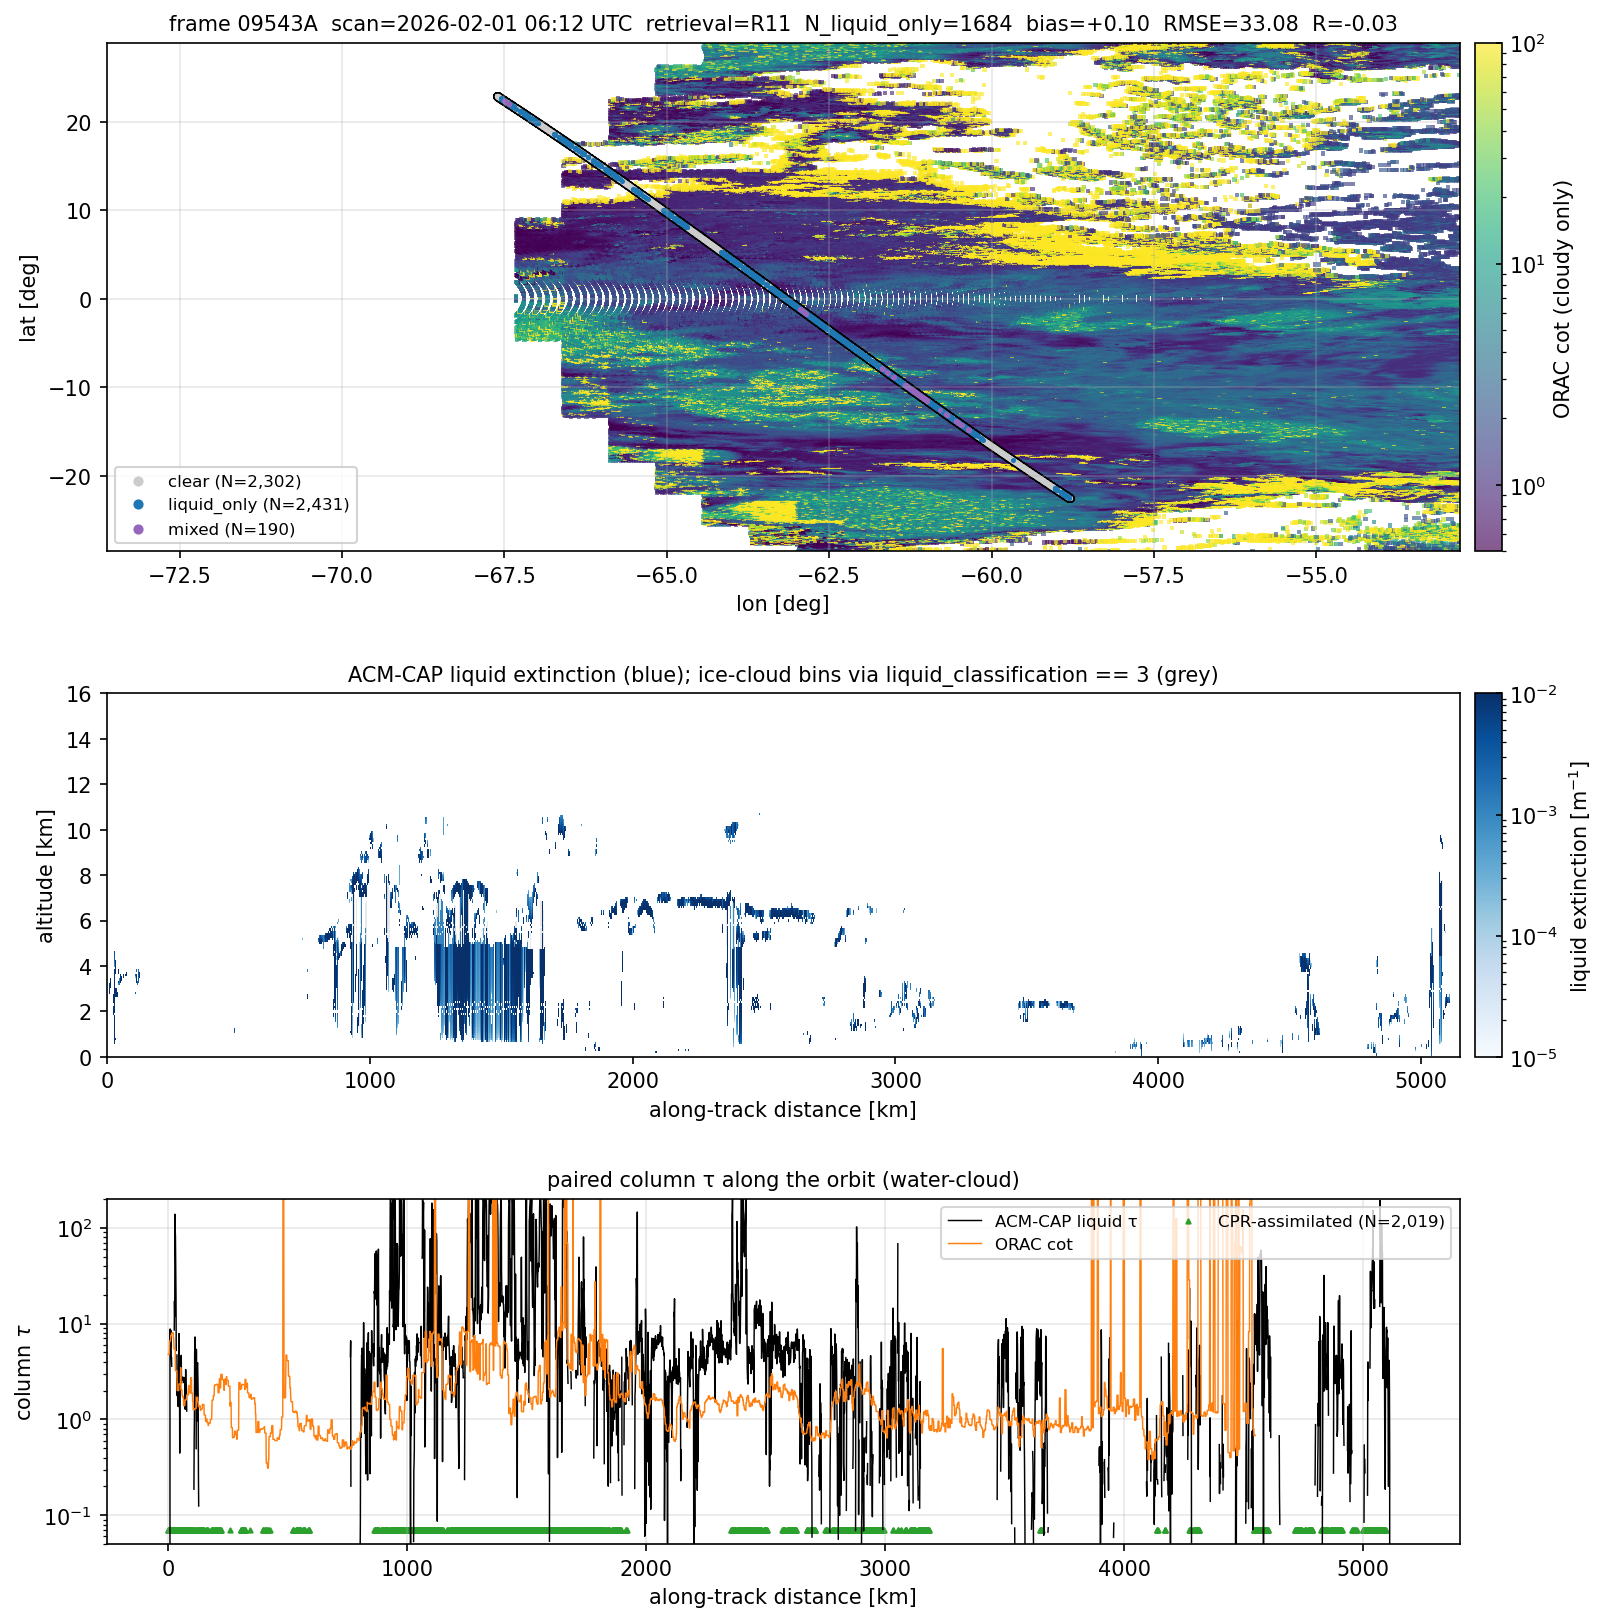
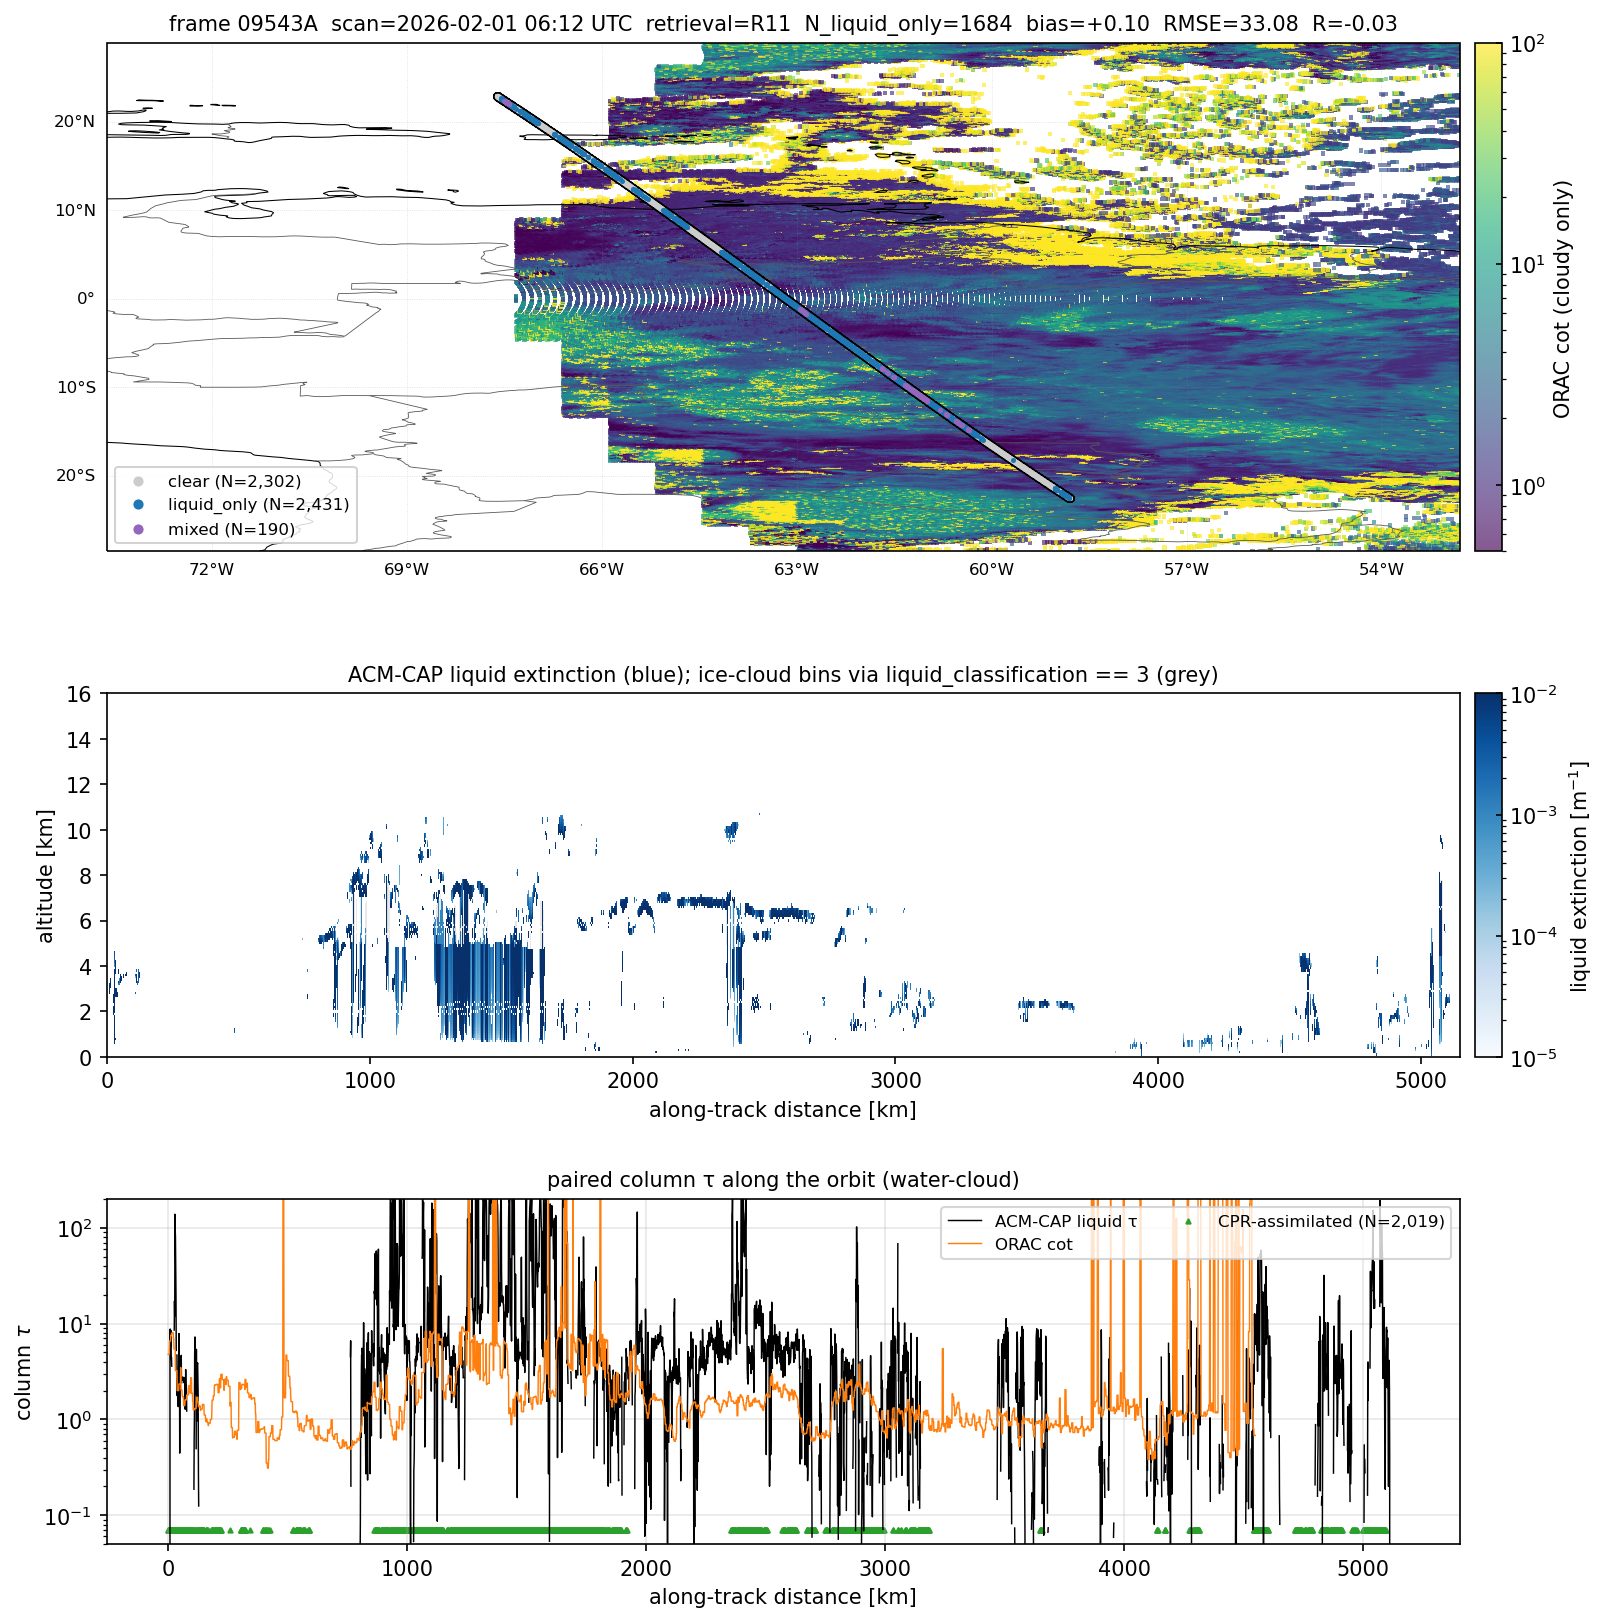
validation(cot_water): add coastlines + country borders to track maps
The SEVIRI cot panel now uses a cartopy PlateCarree GeoAxes with
COASTLINE and BORDERS features overlaid. Geographic context is now
visible at a glance — Greenland's outline at the apex of the Arctic
pass, Iberia / France / UK on the European frame, etc.

Two cartopy/matplotlib gotchas fixed in passing:
 1. make_axes_locatable on a GeoAxes raises KeyError('projection') when
    appending a regular axis — pass axes_class=plt.Axes explicitly.
 2. cartopy default aspect=1 (equal-degree) squashes the map narrower
    than the curtain/line panels for tall-narrow longitude ranges.
    Set ax_map.set_aspect('auto') so all three panels stay uniform width.

Re-rendered all 10 case-study panels.

diff --git a/validation/track_figures.py b/validation/track_figures.py
@@ -17,6 +17,9 @@ import pandas as pd
 from matplotlib.colors import LogNorm
 from mpl_toolkits.axes_grid1 import make_axes_locatable
 
+import cartopy.crs as ccrs
+import cartopy.feature as cfeature
+
 from orac.io import open_slot
 from orac.metadata import discover_slots
 
@@ -316,9 +319,11 @@ def track_panel_synergy(
 
     # Common helper: attach a same-width colourbar to a panel via
     # make_axes_locatable, so panel widths stay aligned across the column.
+    # Force axes_class=plt.Axes — cartopy GeoAxes default would re-create
+    # a GeoAxes for the colourbar slot, which raises KeyError('projection').
     def _add_cbar(ax, mappable, label: str):
         div = make_axes_locatable(ax)
-        cax = div.append_axes("right", size="2%", pad=0.10)
+        cax = div.append_axes("right", size="2%", pad=0.10, axes_class=plt.Axes)
         cb = fig.colorbar(mappable, cax=cax)
         cb.set_label(label)
         cb.ax.tick_params(direction="in", length=3)
@@ -327,26 +332,40 @@ def track_panel_synergy(
     def _add_cbar_spacer(ax):
         """Reserve the same right-margin width on a non-colourbar panel."""
         div = make_axes_locatable(ax)
-        cax = div.append_axes("right", size="2%", pad=0.10)
+        cax = div.append_axes("right", size="2%", pad=0.10, axes_class=plt.Axes)
         cax.axis("off")
 
     # ── Row 1: SEVIRI cot map + ATLID nadir track coloured by phase ─────
-    ax_map = fig.add_subplot(gs[0])
+    proj = ccrs.PlateCarree()
+    ax_map = fig.add_subplot(gs[0], projection=proj)
+    transform = ccrs.PlateCarree()
     pcm = ax_map.scatter(sl_lon[cloudy], sl_lat[cloudy], c=sl_cot[cloudy],
                          cmap=COT_CMAP, norm=COT_NORM, s=4, marker="s",
-                         linewidths=0, alpha=0.65)
+                         linewidths=0, alpha=0.65, transform=transform)
     _add_cbar(ax_map, pcm, "ORAC cot (cloudy only)")
+    # Coastlines + country borders for geographic context.
+    ax_map.add_feature(cfeature.COASTLINE, lw=0.5, edgecolor="black", zorder=2)
+    ax_map.add_feature(cfeature.BORDERS,   lw=0.4, edgecolor="0.35", zorder=2)
     # Black halo for visibility, then phase-coloured dots on top.
-    ax_map.scatter(lon, lat, c="black", s=18, linewidths=0)
+    ax_map.scatter(lon, lat, c="black", s=18, linewidths=0,
+                   transform=transform, zorder=3)
     for cls, col in _PHASE_COLORS.items():
         m = phase_o == cls
         if m.any():
             ax_map.scatter(lon[m], lat[m], c=col, s=6, linewidths=0,
+                           transform=transform, zorder=4,
                            label=f"{cls} (N={int(m.sum()):,})")
     ax_map.legend(loc="lower left", fontsize=8, framealpha=0.85,
                   markerscale=2)
-    ax_map.set_xlim(lon_min, lon_max); ax_map.set_ylim(lat_min, lat_max)
-    ax_map.set_xlabel("lon [deg]"); ax_map.set_ylabel("lat [deg]")
+    ax_map.set_extent([lon_min, lon_max, lat_min, lat_max], crs=transform)
+    # By default cartopy enforces equal-degree aspect (data:1) which can
+    # squash the map narrower than the curtain/line panels. Force 'auto'
+    # so the map fills the full panel width matching panels 2 and 3.
+    ax_map.set_aspect("auto")
+    gl = ax_map.gridlines(draw_labels=True, alpha=0.3, lw=0.4,
+                          color="0.55", linestyle=":")
+    gl.top_labels = False; gl.right_labels = False
+    gl.xlabel_style = {"size": 8}; gl.ylabel_style = {"size": 8}
     base = fr[fr["valid_match"] & (fr["cldmask_orac"] == 1)
               & fr["cot_water_atlid"].notna() & fr["cot_orac"].notna()].copy()
     if "quality_status_atlid" in base.columns:
